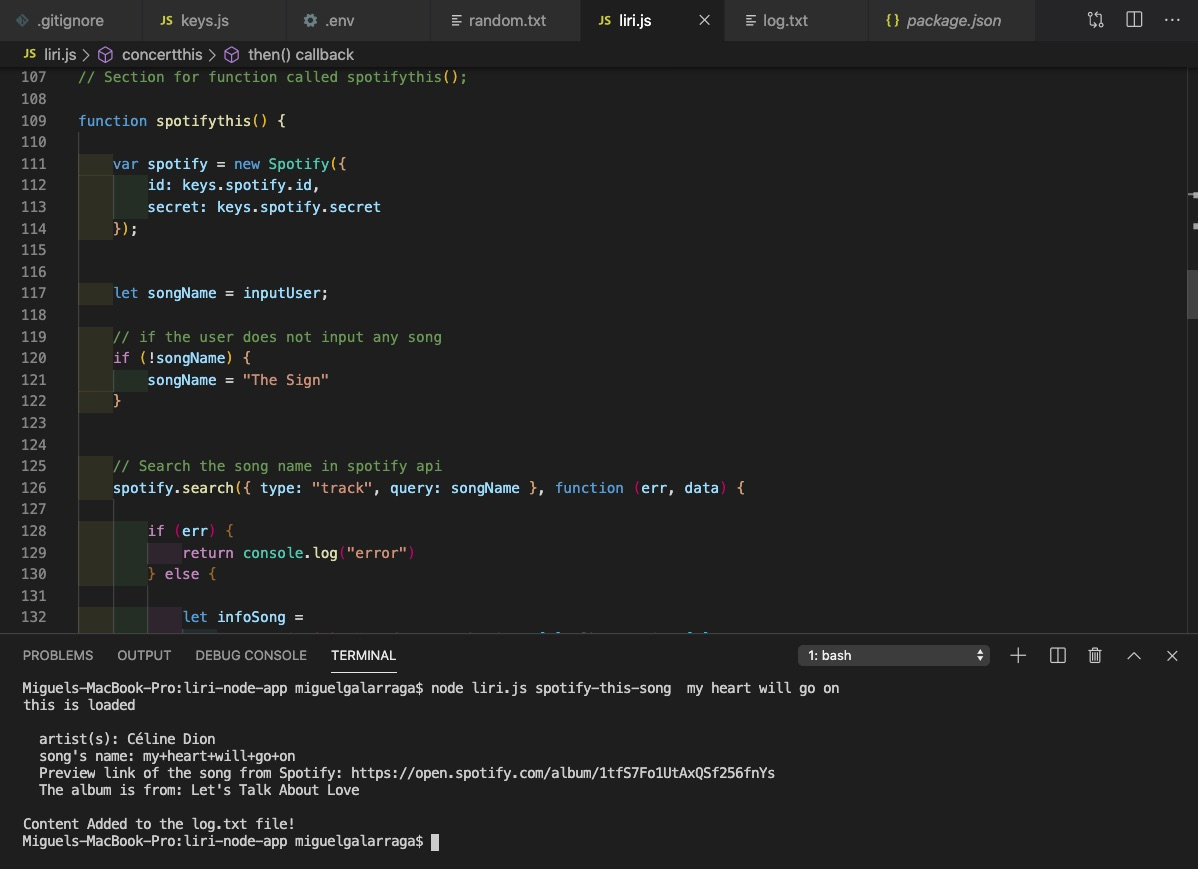
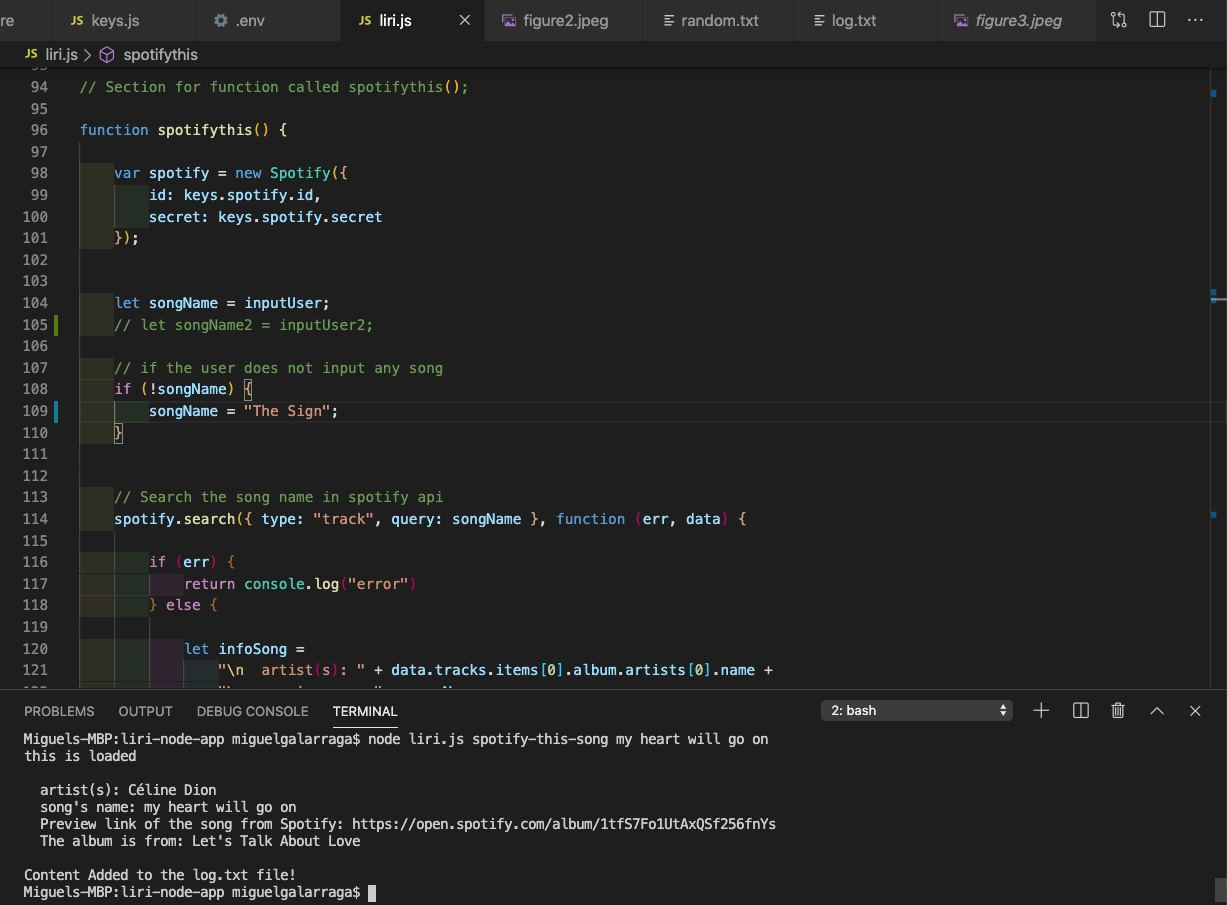
just edit liri/js to remove the variable inputUser2

diff --git a/liri.js b/liri.js
@@ -9,20 +9,7 @@ const Spotify = require("node-spotify-api");
 
 //Global variables
 var action = process.argv[2];
-var nodeArgs = process.argv;
-var inputUser = "";
-
-// Loop through all the words in the node argument
-// And do a little for-loop magic to handle the inclusion of artist, band or song with multiple words
-
-for (let i = 3; i < nodeArgs.length; i++) {
-
-    if (i > 3 && i < nodeArgs.length) {
-        inputUser = inputUser + "+" + nodeArgs[i];
-    } else {
-        inputUser += nodeArgs[i];
-    }
-};
+var inputUser = process.argv.slice(3).join(" ");
 
 
 // Block of code that tell the action that the app will be doing
@@ -115,10 +102,11 @@ function spotifythis() {
 
 
     let songName = inputUser;
+    // let songName2 = inputUser2;
 
     // if the user does not input any song
     if (!songName) {
-        songName = "The Sign"
+        songName = "The Sign";
     }
 
 
@@ -216,6 +204,7 @@ function dowhatitsays() {
 
         action = output[0];
         inputUser = output[1];
+
 
         switch (action) {
             case "concert-this":
